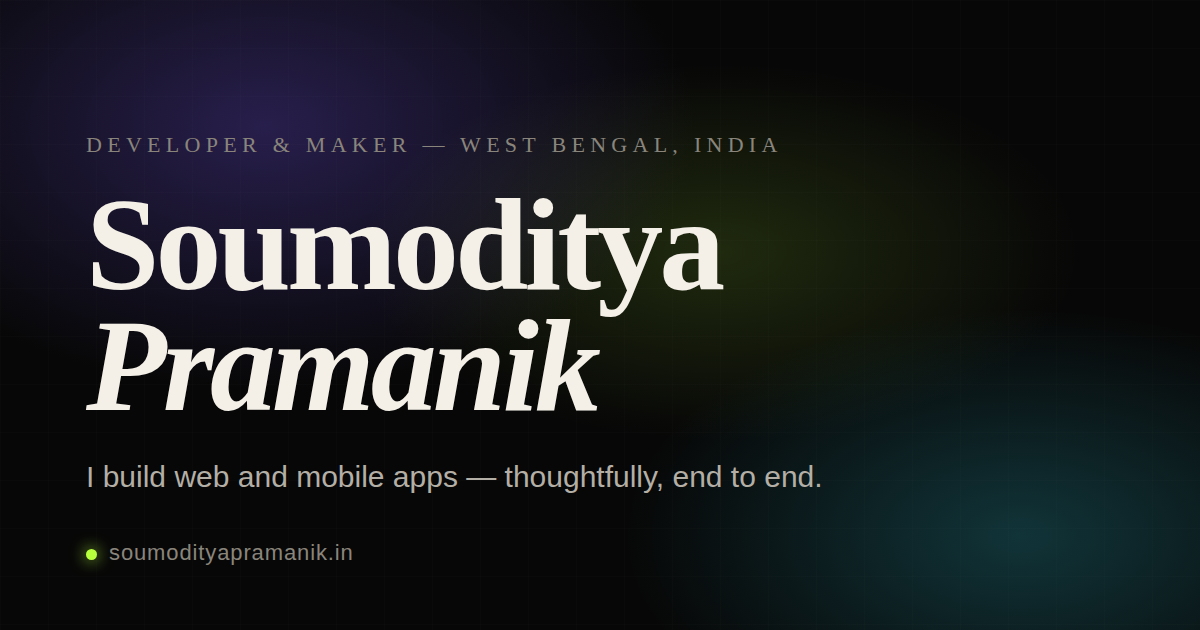
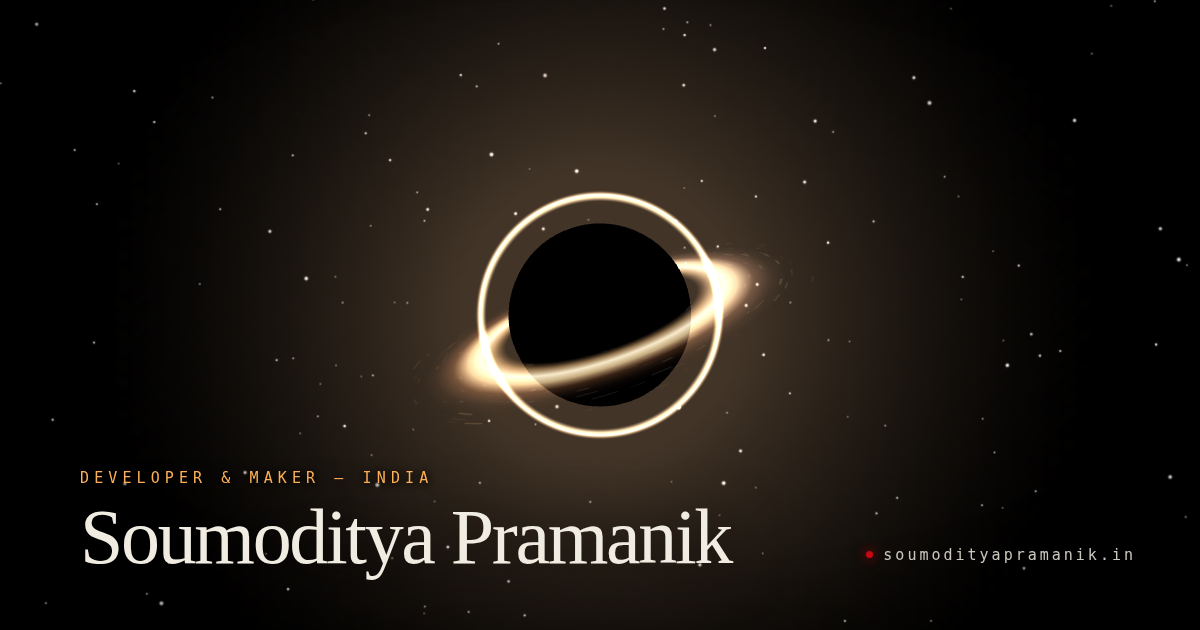
SEO and share-preview polish: new OG image, richer structured data, manifest (#9)
The Open Graph image was still the original teal concept art from the first
build and read "DEVELOPER & MAKER — WEST BENGAL, INDIA", so every shared link
showed both the wrong design and a location line that was supposed to be
India-only. It is regenerated from the live black-hole scene at 1200x630, so
the preview now matches what visitors actually land on.

- Project, social, education and skill lists move to src/app/data.ts as a single
  source of truth, imported by both the experience and the metadata, so the
  page and the structured data can no longer drift apart.
- Structured data grows from Person + WebSite to also include ProfilePage and an
  ItemList of all nine projects as SoftwareApplication entries, letting search
  engines surface them individually. sameAs, alumniOf and knowsAbout are now
  derived from the shared data rather than hand-maintained copies.
- Adds a web app manifest so the existing 192/512 icons are actually used and
  the site is installable.
- Adds a <noscript> document with the full project, education, skills and
  contact content, so crawlers and anyone without JS or WebGL get a real,
  readable page instead of an empty canvas.
- og:image gains a type and a descriptive alt; twitter:site is set.

Verified: build green, manifest emitted and linked, JSON-LD graph parses with
all nine projects, noscript renders 18 entries, og.png is 1200x630, and the
experience still runs end to end after the data refactor (intro -> mask ->
[…]

diff --git a/src/app/layout.tsx b/src/app/layout.tsx
@@ -1,9 +1,6 @@
 import type { Metadata } from 'next'
 import './globals.css'
-
-const SITE_URL = 'https://soumodityapramanik.in'
-const NAME = 'Soumoditya Pramanik'
-const DESCRIPTION = 'Developer & maker from India. I build web apps, AI tools and interactive interfaces with React, Next.js and TypeScript.'
+import { NAME, SITE_URL, DESCRIPTION, EMAIL, PROJECTS, SOCIALS, EDU, SKILLS } from './data'
 
 export const metadata: Metadata = {
   metadataBase: new URL(SITE_URL),
@@ -27,12 +24,13 @@ export const metadata: Metadata = {
     siteName: NAME,
     title: `${NAME} — Developer & Maker`,
     description: DESCRIPTION,
-    images: [{ url: '/og.png', width: 1200, height: 630, alt: NAME }],
+    images: [{ url: '/og.png', width: 1200, height: 630, alt: `${NAME} — Developer & Maker, India`, type: 'image/png' }],
   },
   twitter: {
     card: 'summary_large_image',
     title: `${NAME} — Developer & Maker`,
     description: DESCRIPTION,
+    site: '@Soumodityax',
     creator: '@Soumodityax',
     images: ['/og.png'],
   },
@@ -59,13 +57,13 @@ const jsonLd = {
       description: DESCRIPTION,
       nationality: { '@type': 'Country', name: 'India' },
       address: { '@type': 'PostalAddress', addressCountry: 'IN' },
-      email: 'soumodityapramanik@gmail.com',
-      alumniOf: [
-        { '@type': 'CollegeOrUniversity', name: 'Brainware University' },
-        { '@type': 'HighSchool', name: 'Rampurhat Jitendralal Vidyabhaban' },
-      ],
-      knowsAbout: ['JavaScript','TypeScript','React','Next.js','Node.js','Tailwind CSS','Three.js','Web Development','AI Tools'],
-      sameAs: ['https://www.linkedin.com/in/soumodityapramanik','https://github.com/Soumoditya','https://x.com/Soumodityax','https://www.instagram.com/soumodityapramanik','https://youtube.com/@soumodityapramanik'],
+      email: EMAIL,
+      alumniOf: EDU.map(e => ({
+        '@type': e.inst.includes('University') ? 'CollegeOrUniversity' : 'HighSchool',
+        name: e.inst,
+      })),
+      knowsAbout: SKILLS,
+      sameAs: SOCIALS.map(s => s[1]),
     },
     {
       '@type': 'WebSite',
@@ -74,6 +72,36 @@ const jsonLd = {
       description: DESCRIPTION,
       publisher: { '@id': `${SITE_URL}/#person` },
       inLanguage: 'en-IN',
+    },
+    {
+      '@type': 'ProfilePage',
+      '@id': `${SITE_URL}/#profile`,
+      url: SITE_URL,
+      name: `${NAME} — Developer & Maker`,
+      about: { '@id': `${SITE_URL}/#person` },
+      isPartOf: { '@id': `${SITE_URL}/#website` },
+      inLanguage: 'en-IN',
+      primaryImageOfPage: `${SITE_URL}/og.png`,
+    },
+    // the nine real projects, so search engines can surface them individually
+    {
+      '@type': 'ItemList',
+      '@id': `${SITE_URL}/#projects`,
+      name: `Projects by ${NAME}`,
+      numberOfItems: PROJECTS.length,
+      itemListElement: PROJECTS.map((p, i) => ({
+        '@type': 'ListItem',
+        position: i + 1,
+        item: {
+          '@type': 'SoftwareApplication',
+          name: p.n,
+          description: p.desc,
+          applicationCategory: p.cat,
+          operatingSystem: p.tags.includes('Android') ? 'Android' : 'Web',
+          author: { '@id': `${SITE_URL}/#person` },
+          ...(p.url ? { url: p.url } : {}),
+        },
+      })),
     },
   ],
 }
@@ -90,7 +118,32 @@ export default function RootLayout({ children }: { children: React.ReactNode }) 
         <meta name="color-scheme" content="dark" />
         <link rel="preload" as="style" href="https://fonts.googleapis.com/css2?family=Instrument+Serif:ital@0;1&family=Geist:wght@300;400;500;600&family=Geist+Mono:wght@300;400&display=swap" />
       </head>
-      <body>{children}</body>
+      <body>
+        {children}
+        {/* real content for crawlers and anyone without JS / WebGL */}
+        <noscript>
+          <div className="noscript-doc">
+            <h1>{NAME} — Developer &amp; Maker, India</h1>
+            <p>{DESCRIPTION}</p>
+            <h2>Projects</h2>
+            <ul>
+              {PROJECTS.map(p => (
+                <li key={p.n}>
+                  {p.url ? <a href={p.url}>{p.n}</a> : <strong>{p.n}</strong>}
+                  {` — ${p.cat}. ${p.desc} (${p.tags.join(', ')})`}
+                </li>
+              ))}
+            </ul>
+            <h2>Education</h2>
+            <ul>{EDU.map(e => <li key={e.inst}>{`${e.yr} — ${e.inst}, ${e.deg}, ${e.place}`}</li>)}</ul>
+            <h2>Skills</h2>
+            <p>{SKILLS.join(', ')}</p>
+            <h2>Contact</h2>
+            <p><a href={`mailto:${EMAIL}`}>{EMAIL}</a></p>
+            <ul>{SOCIALS.map(s => <li key={s[0]}><a href={s[1]}>{s[0]}</a></li>)}</ul>
+          </div>
+        </noscript>
+      </body>
     </html>
   )
 }

diff --git a/src/app/data.ts b/src/app/data.ts
@@ -1,0 +1,41 @@
+/* Single source of truth for content used by both the experience (page.tsx)
+   and the SEO metadata / structured data (layout.tsx), so the two can't drift. */
+
+export type Project = {
+  n: string; cat: string; accent: string; desc: string
+  tags: string[]; cta: string; url: string | null
+}
+
+export const NAME = 'Soumoditya Pramanik'
+export const SITE_URL = 'https://soumodityapramanik.in'
+export const EMAIL = 'soumodityapramanik@gmail.com'
+export const DESCRIPTION = 'Developer & maker from India. I build web apps, AI tools and interactive interfaces with React, Next.js and TypeScript.'
+
+export const PROJECTS: Project[] = [
+  { n:'NagrikNazar', cat:'Civic Tech', accent:'#E8A24A', desc:'Tracks Indian politicians’ criminal cases, assets and budgets using public records.', tags:['Next.js','TypeScript','Data'], cta:'Visit live', url:'https://news-theta-dusky.vercel.app' },
+  { n:'ResumeForge', cat:'AI Tool', accent:'#8E7BE6', desc:'An AI resume builder and analyzer with ATS scoring, powered by Gemini.', tags:['Next.js','Tailwind','Gemini'], cta:'Visit live', url:'https://resumeforge-flame.vercel.app' },
+  { n:'Sadhak', cat:'Lifestyle', accent:'#D8B15A', desc:'A spiritual companion — Panchang, temple finder, japa counter, library and community.', tags:['Web App','PWA'], cta:'Visit live', url:'https://sadhak-app.vercel.app' },
+  { n:'Sanskrit Guru', cat:'Learning', accent:'#D9857A', desc:'A gamified way to learn Sanskrit — build sentences and decode shlokas, even offline.', tags:['Web App','Offline'], cta:'Visit live', url:'https://sanskrit-guru.vercel.app' },
+  { n:'Banana Chat', cat:'Social', accent:'#E4C860', desc:'A real-time chat platform — simple, fast and built for conversation.', tags:['JavaScript','Realtime'], cta:'Visit live', url:'https://banana-chat-app.vercel.app' },
+  { n:'Sampark', cat:'Messaging', accent:'#7FEAD6', desc:'The desi messenger — real-time messaging built for how India chats.', tags:['Web App','Realtime'], cta:'Visit live', url:'https://sampark-app.vercel.app' },
+  { n:'PassPredictor', cat:'Security', accent:'#6BC7E0', desc:'A password-recovery tool that ranks likely passwords from personal hints.', tags:['JavaScript','Logic'], cta:'Visit live', url:'https://pass-predictor.vercel.app' },
+  { n:'Vintly', cat:'Android', accent:'#9BC46B', desc:'A study companion for Android that turns notes into usable study material.', tags:['Android','App'], cta:'Download', url:'https://github.com/Soumoditya/Vintly/releases/tag/latest' },
+  { n:'Days Until', cat:'Android', accent:'#C878B0', desc:'A minimal countdown app for the dates you don’t want to miss.', tags:['Android','Play Store'], cta:'Coming to Play Store', url:null },
+]
+
+export const SOCIALS: [string,string][] = [
+  ['GitHub','https://github.com/Soumoditya'],
+  ['LinkedIn','https://www.linkedin.com/in/soumodityapramanik'],
+  ['X','https://x.com/Soumodityax'],
+  ['Instagram','https://www.instagram.com/soumodityapramanik'],
+  ['YouTube','https://youtube.com/@soumodityapramanik'],
+  ['Play Store','https://play.google.com/store/apps/dev?id=4693782516786119856'],
+  ['Linktree','https://linktr.ee/soumodityapramanik'],
+]
+
+export const EDU = [
+  { yr:'2022 — 2025', inst:'Brainware University', deg:'Bachelor of Computer Applications (BCA)', place:'Barasat' },
+  { yr:'2020 & 2022', inst:'Rampurhat Jitendralal Vidyabhaban', deg:'Secondary & Higher Secondary', place:'Rampurhat' },
+]
+
+export const SKILLS = ['JavaScript','TypeScript','React','Next.js','Node.js','Tailwind CSS','Three.js','Android','Web Development','AI Tools']

diff --git a/src/app/page.tsx b/src/app/page.tsx
@@ -1,29 +1,7 @@
 'use client'
 import { useEffect } from 'react'
+import { PROJECTS, SOCIALS, EDU, EMAIL, type Project } from './data'
 
-type Project = { n: string; cat: string; accent: string; desc: string; tags: string[]; cta: string; url: string | null }
-const PROJECTS: Project[] = [
-  { n:'NagrikNazar', cat:'Civic Tech', accent:'#E8A24A', desc:'Tracks Indian politicians’ criminal cases, assets and budgets using public records.', tags:['Next.js','TypeScript','Data'], cta:'Visit live', url:'https://news-theta-dusky.vercel.app' },
-  { n:'ResumeForge', cat:'AI Tool', accent:'#8E7BE6', desc:'An AI resume builder and analyzer with ATS scoring, powered by Gemini.', tags:['Next.js','Tailwind','Gemini'], cta:'Visit live', url:'https://resumeforge-flame.vercel.app' },
-  { n:'Sadhak', cat:'Lifestyle', accent:'#D8B15A', desc:'A spiritual companion — Panchang, temple finder, japa counter, library and community.', tags:['Web App','PWA'], cta:'Visit live', url:'https://sadhak-app.vercel.app' },
-  { n:'Sanskrit Guru', cat:'Learning', accent:'#D9857A', desc:'A gamified way to learn Sanskrit — build sentences and decode shlokas, even offline.', tags:['Web App','Offline'], cta:'Visit live', url:'https://sanskrit-guru.vercel.app' },
-  { n:'Banana Chat', cat:'Social', accent:'#E4C860', desc:'A real-time chat platform — simple, fast and built for conversation.', tags:['JavaScript','Realtime'], cta:'Visit live', url:'https://banana-chat-app.vercel.app' },
-  { n:'Sampark', cat:'Messaging', accent:'#7FEAD6', desc:'The desi messenger — real-time messaging built for how India chats.', tags:['Web App','Realtime'], cta:'Visit live', url:'https://sampark-app.vercel.app' },
-  { n:'PassPredictor', cat:'Security', accent:'#6BC7E0', desc:'A password-recovery tool that ranks likely passwords from personal hints.', tags:['JavaScript','Logic'], cta:'Visit live', url:'https://pass-predictor.vercel.app' },
-  { n:'Vintly', cat:'Android', accent:'#9BC46B', desc:'A study companion for Android that turns notes into usable study material.', tags:['Android','App'], cta:'Download', url:'https://github.com/Soumoditya/Vintly/releases/tag/latest' },
-  { n:'Days Until', cat:'Android', accent:'#C878B0', desc:'A minimal countdown app for the dates you don’t want to miss.', tags:['Android','Play Store'], cta:'Coming to Play Store', url:null },
-]
-const SOCIALS: [string,string][] = [
-  ['GitHub','https://github.com/Soumoditya'],['LinkedIn','https://www.linkedin.com/in/soumodityapramanik'],
-  ['X','https://x.com/Soumodityax'],['Instagram','https://www.instagram.com/soumodityapramanik'],
-  ['YouTube','https://youtube.com/@soumodityapramanik'],['Play Store','https://play.google.com/store/apps/dev?id=4693782516786119856'],
-  ['Linktree','https://linktr.ee/soumodityapramanik'],
-]
-const EDU = [
-  { yr:'2022 — 2025', inst:'Brainware University', deg:'Bachelor of Computer Applications (BCA)', place:'Barasat' },
-  { yr:'2020 & 2022', inst:'Rampurhat Jitendralal Vidyabhaban', deg:'Secondary & Higher Secondary', place:'Rampurhat' },
-]
-const EMAIL = 'soumodityapramanik@gmail.com'
 
 /* recognizable brand glyphs (24 viewBox, currentColor) */
 const ICONS: Record<string,string> = {

diff --git a/src/app/globals.css b/src/app/globals.css
@@ -167,3 +167,11 @@ canvas{display:block}
 #fallback .pc .go{font-family:var(--mono);font-size:11px;letter-spacing:.08em;text-transform:uppercase;color:var(--teal)}
 #fallback .soc a{font-family:var(--mono);font-size:12px;color:var(--dim);margin-right:16px}
 .seo-only{position:absolute;width:1px;height:1px;padding:0;margin:-1px;overflow:hidden;clip:rect(0 0 0 0);white-space:nowrap;border:0}
+/* no-JS / no-WebGL readable document */
+.noscript-doc{position:fixed;inset:0;z-index:60;overflow:auto;background:var(--bg);color:var(--ink);padding:clamp(28px,6vw,72px) clamp(18px,5vw,60px);line-height:1.75}
+.noscript-doc h1{font-family:var(--serif);font-size:clamp(34px,7vw,68px);letter-spacing:-.02em;margin-bottom:14px}
+.noscript-doc h2{font-family:var(--mono);font-size:12px;letter-spacing:.24em;text-transform:uppercase;color:var(--amber);margin:34px 0 12px}
+.noscript-doc p{max-width:62ch;color:#c7c2b9}
+.noscript-doc ul{list-style:none;max-width:70ch}
+.noscript-doc li{padding:9px 0;border-top:1px solid rgba(240,236,226,.12);color:#c7c2b9;font-size:15px}
+.noscript-doc a{color:var(--teal);text-decoration:underline}

diff --git a/src/app/manifest.ts b/src/app/manifest.ts
@@ -1,0 +1,21 @@
+import { MetadataRoute } from 'next'
+import { NAME, DESCRIPTION } from './data'
+
+export default function manifest(): MetadataRoute.Manifest {
+  return {
+    name: `${NAME} — Developer & Maker`,
+    short_name: NAME.split(' ')[0],
+    description: DESCRIPTION,
+    start_url: '/',
+    display: 'standalone',
+    background_color: '#020204',
+    theme_color: '#020204',
+    orientation: 'any',
+    categories: ['portfolio', 'technology'],
+    icons: [
+      { src: '/icon-192.png', sizes: '192x192', type: 'image/png', purpose: 'any' },
+      { src: '/icon-512.png', sizes: '512x512', type: 'image/png', purpose: 'any' },
+      { src: '/apple-touch-icon.png', sizes: '180x180', type: 'image/png' },
+    ],
+  }
+}
